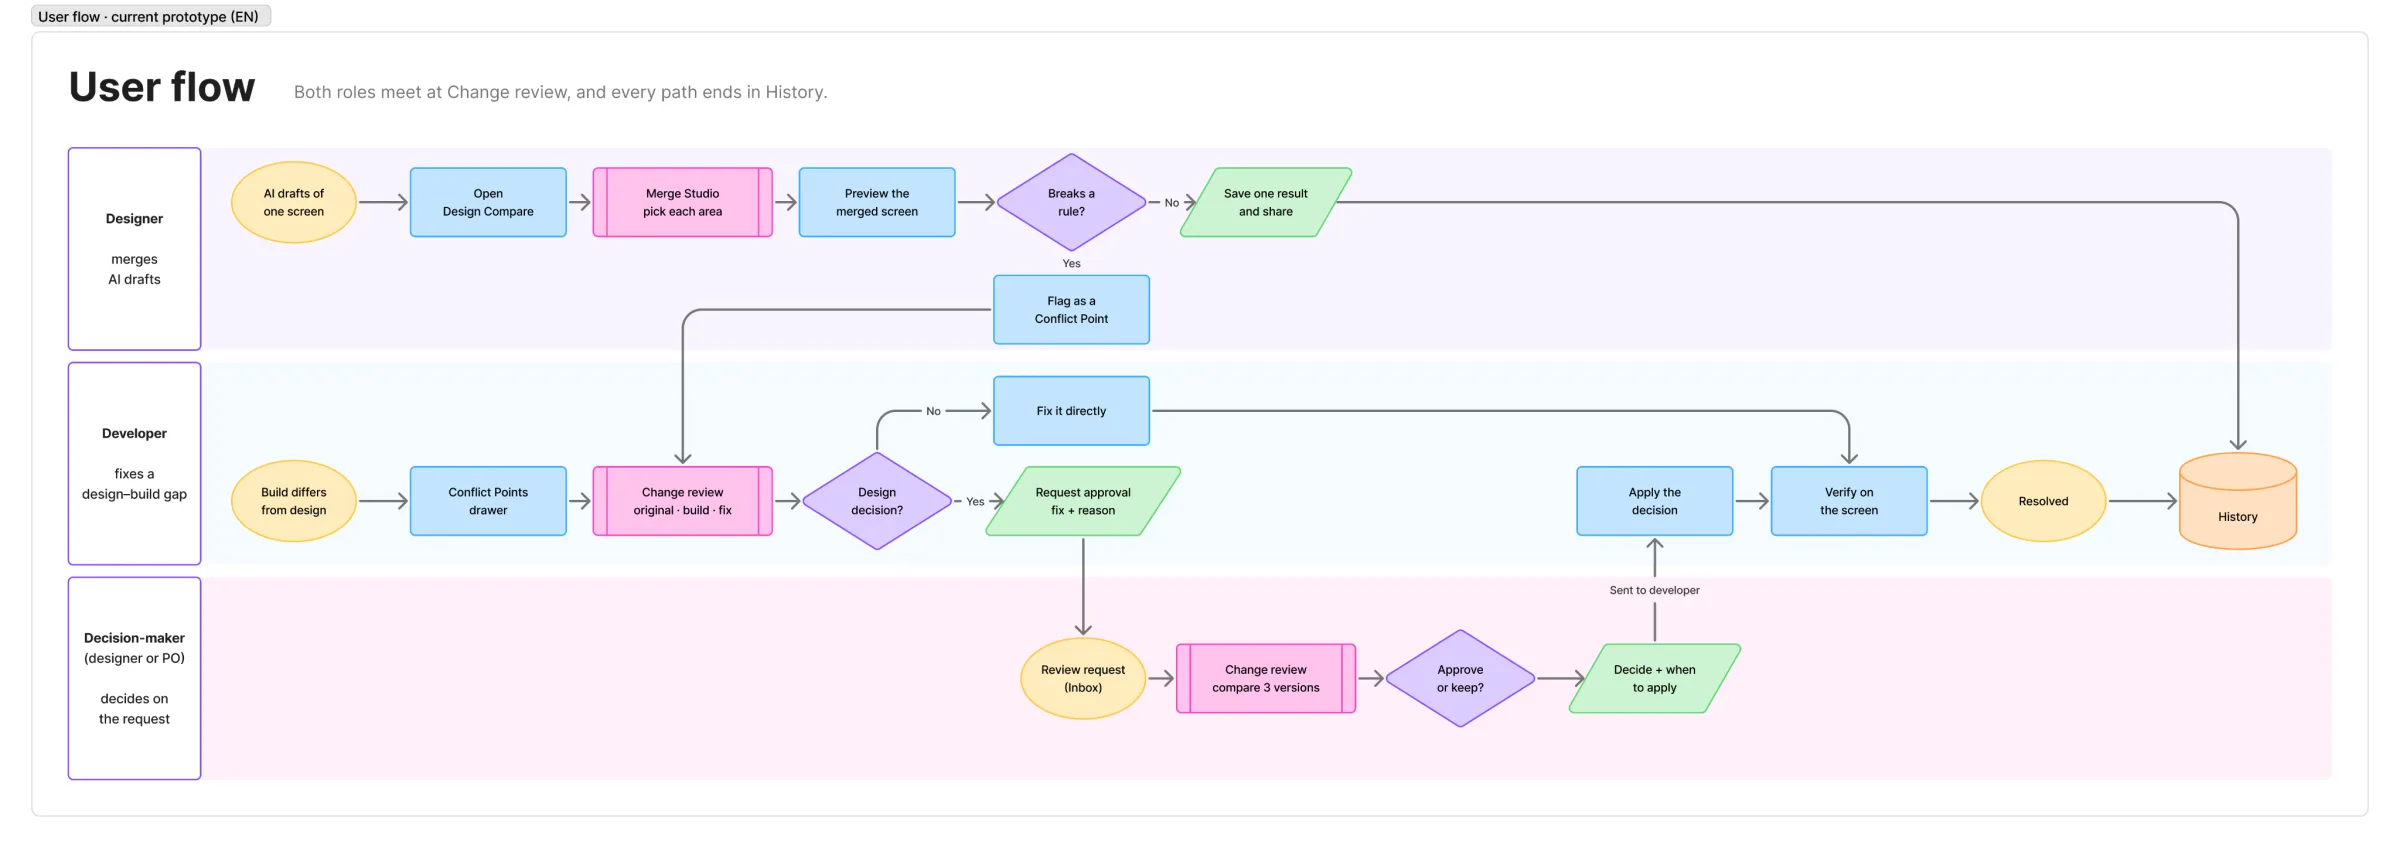
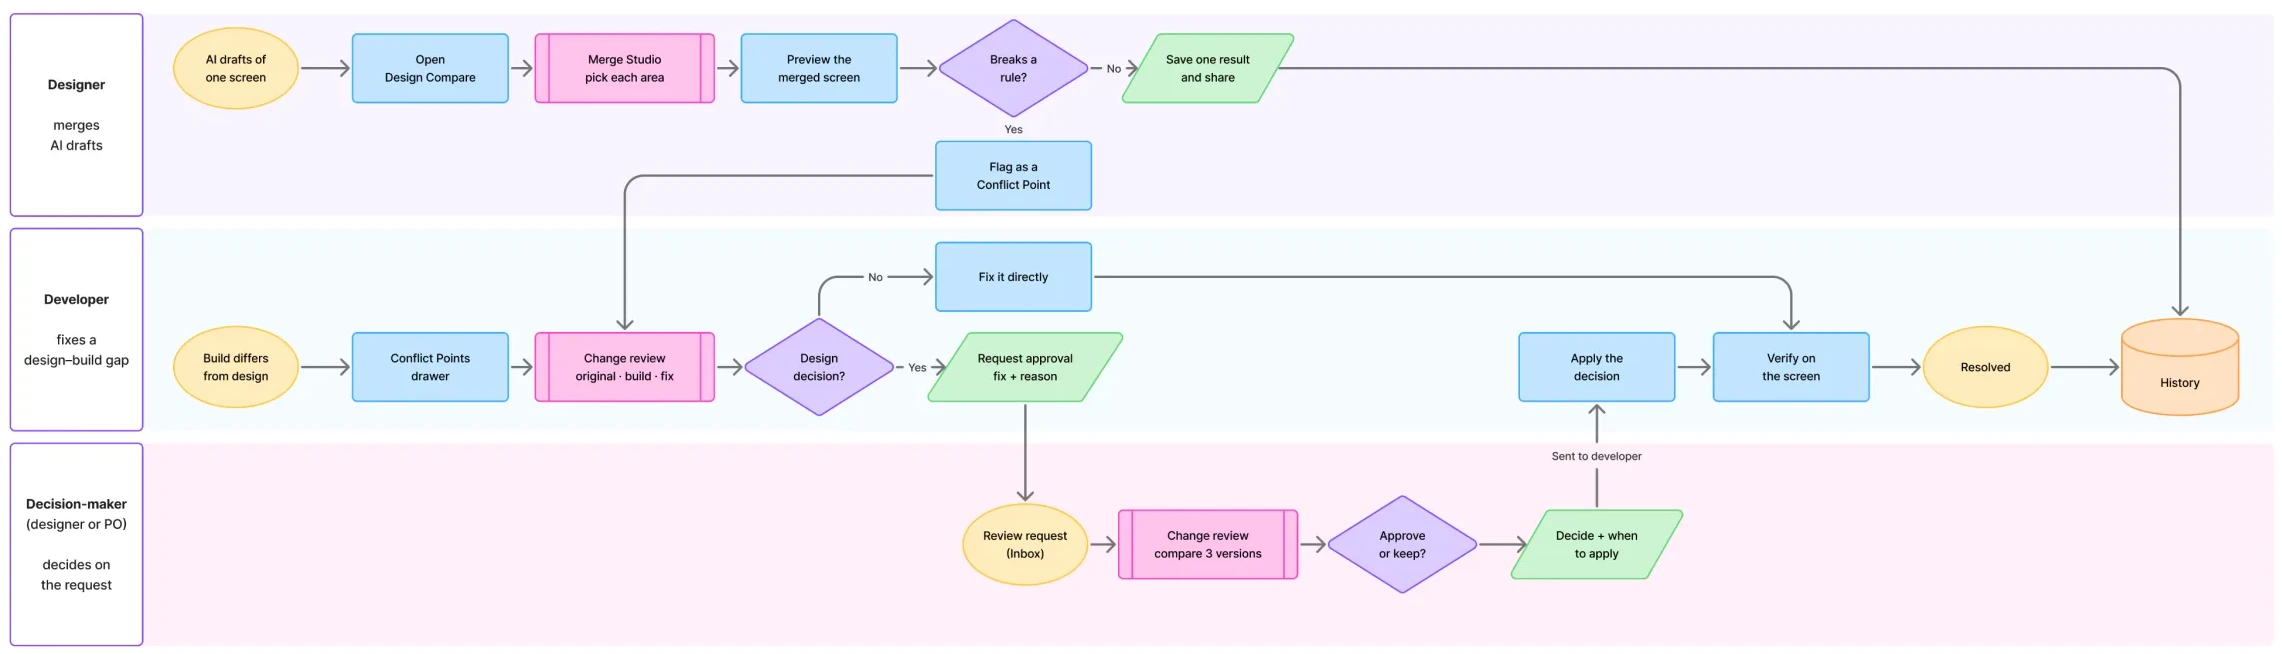
Devsign IA and user flow stacked at full width

diff --git a/components/devsign-case.tsx b/components/devsign-case.tsx
@@ -38,8 +38,6 @@ const pad = (n: number) => String(n).padStart(2, "0");
 // frame aspect ratio, then the image's width, height, left and top in % of the frame.
 const CROPS: Record<string, [number, number, number, number, number]> = {
   "/images/devsign/affinity-board.webp": [1440 / 487, 100.04, 100.97, -0.02, -0.97],
-  "/images/devsign/information-architecture.webp": [1440 / 279, 102.77, 115.63, -1.23, -10.74],
-  "/images/devsign/user-flow.webp": [1440 / 351, 104.71, 126.42, -2.27, -18.71],
   "/images/devsign/value-effort-matrix.webp": [376 / 440, 103.73, 107.53, -1.87, -5.91],
   "/images/devsign/codesign-session.webp": [720 / 472, 108.84, 118.47, -4.38, -13.12],
 };
@@ -610,26 +608,12 @@ export function DevsignCase({ study, children }: { study: Study; children: React
           </div>
         )}
         <div className="dv-subsection">
-          {ff ? (
-            <ul className="dv-artifacts">
-              {[develop.ia, develop.flow].map((item: Study) => (
-                <li key={item.title} className="reveal">
-                  <ZoomFrame href={withBase(item.image.src)} scale={3}>
-                    <Image src={withBase(item.image.src)} alt={item.image.alt} width={item.image.width} height={item.image.height} sizes="(max-width: 767px) 100vw, 600px" />
-                  </ZoomFrame>
-                  <strong>{item.title}</strong>
-                  <p>{item.lead}</p>
-                </li>
-              ))}
-            </ul>
-          ) : <>
-            <Block {...develop.ia} ff={ff} />
-            <Figure img={develop.ia.image} className="dv-board dv-gap-40" zoom={2.5} />
-            <div className="dv-gap-96">
-              <Block {...develop.flow} ff={ff} />
-              <Figure img={develop.flow.image} className="dv-board dv-gap-40" zoom={2.5} />
-            </div>
-          </>}
+          <Block {...develop.ia} text={ff ? undefined : develop.ia.text} ff={ff} />
+          <Figure img={develop.ia.image} className="dv-board dv-gap-40" zoom={2.5} />
+          <div className="dv-gap-96">
+            <Block {...develop.flow} text={ff ? undefined : develop.flow.text} ff={ff} />
+            <Figure img={develop.flow.image} className="dv-board dv-gap-40" zoom={2.5} />
+          </div>
           {/* Shown once its capture is added (`develop.system.image`). */}
           {develop.system?.image && (
             <div className="dv-gap-96">

diff --git a/app/globals.css b/app/globals.css
@@ -4364,15 +4364,7 @@ html:has(.dv-demo-dialog[open]) { overflow: hidden; }
 .dv-dropped { display: flex; flex-wrap: wrap; align-items: center; gap: 12px; color: var(--dv-ink); font-size: clamp(20px, 1.8vw, 24px); font-weight: 500; line-height: 1.3; }
 .dv-dropped s { color: var(--dv-muted); }
 .dv-dropped b { color: var(--case-accent); font-weight: 500; }
-.dv-artifacts { display: grid; grid-template-columns: repeat(2, minmax(0, 1fr)); gap: 24px; margin: 0; padding: 0; list-style: none; }
-.dv-artifacts a { display: block; color: var(--dv-ink); text-decoration: none; }
-.dv-artifacts img { display: block; width: 100%; height: 200px; object-fit: contain; padding: 12px; border-radius: var(--dv-card-radius); background: #ffffff; transition: transform 250ms var(--ease); }
-.dv-artifacts a:hover img { transform: translateY(-3px); }
-.dv-artifacts a:focus-visible { outline: 2px solid var(--case-accent); outline-offset: 4px; border-radius: var(--dv-card-radius); }
-.dv-artifacts strong { display: block; margin-top: 12px; font-size: 18px; font-weight: 600; line-height: 1.4; }
-.dv-artifacts p { margin-top: 4px; color: var(--dv-muted); font-size: 16px; font-weight: 500; line-height: 1.5; }
 .dv .dv-gap-16 { margin-top: 16px; }
-@media (prefers-reduced-motion: reduce) { .dv-artifacts img { transition: none; } }
 
 .about-skills { margin: 48px 0 0; max-width: var(--dv-measure); }
 .about-skills dt { color: var(--dv-ink); font-size: 18px; font-weight: 600; line-height: 1.4; }
@@ -4721,8 +4713,6 @@ html:has(.dv-demo-dialog[open]) { overflow: hidden; }
 @media (prefers-reduced-motion: reduce) { .dv-zoom-inner, .dv-zoom-hint { transition: none; } }
 /* A scroll-driven animation keeps the image on its own layer at 1x, which blurs it under the magnifier. */
 .dv-zoom-frame[data-on] img { animation: none !important; }
-.dv-artifacts .dv-zoom-hint { right: 8px; bottom: 8px; }
-.dv-artifacts li > strong { display: block; margin-top: 12px; color: var(--dv-ink); font-size: 18px; font-weight: 500; line-height: 1.4; }
 
 /* Room inside a block: what a block found sits further from what proves it. */
 .dv-ut-scores { display: grid; grid-template-columns: repeat(4, minmax(0, 1fr)); gap: 48px 40px; margin: 72px 0 0; padding: 0; list-style: none; }
